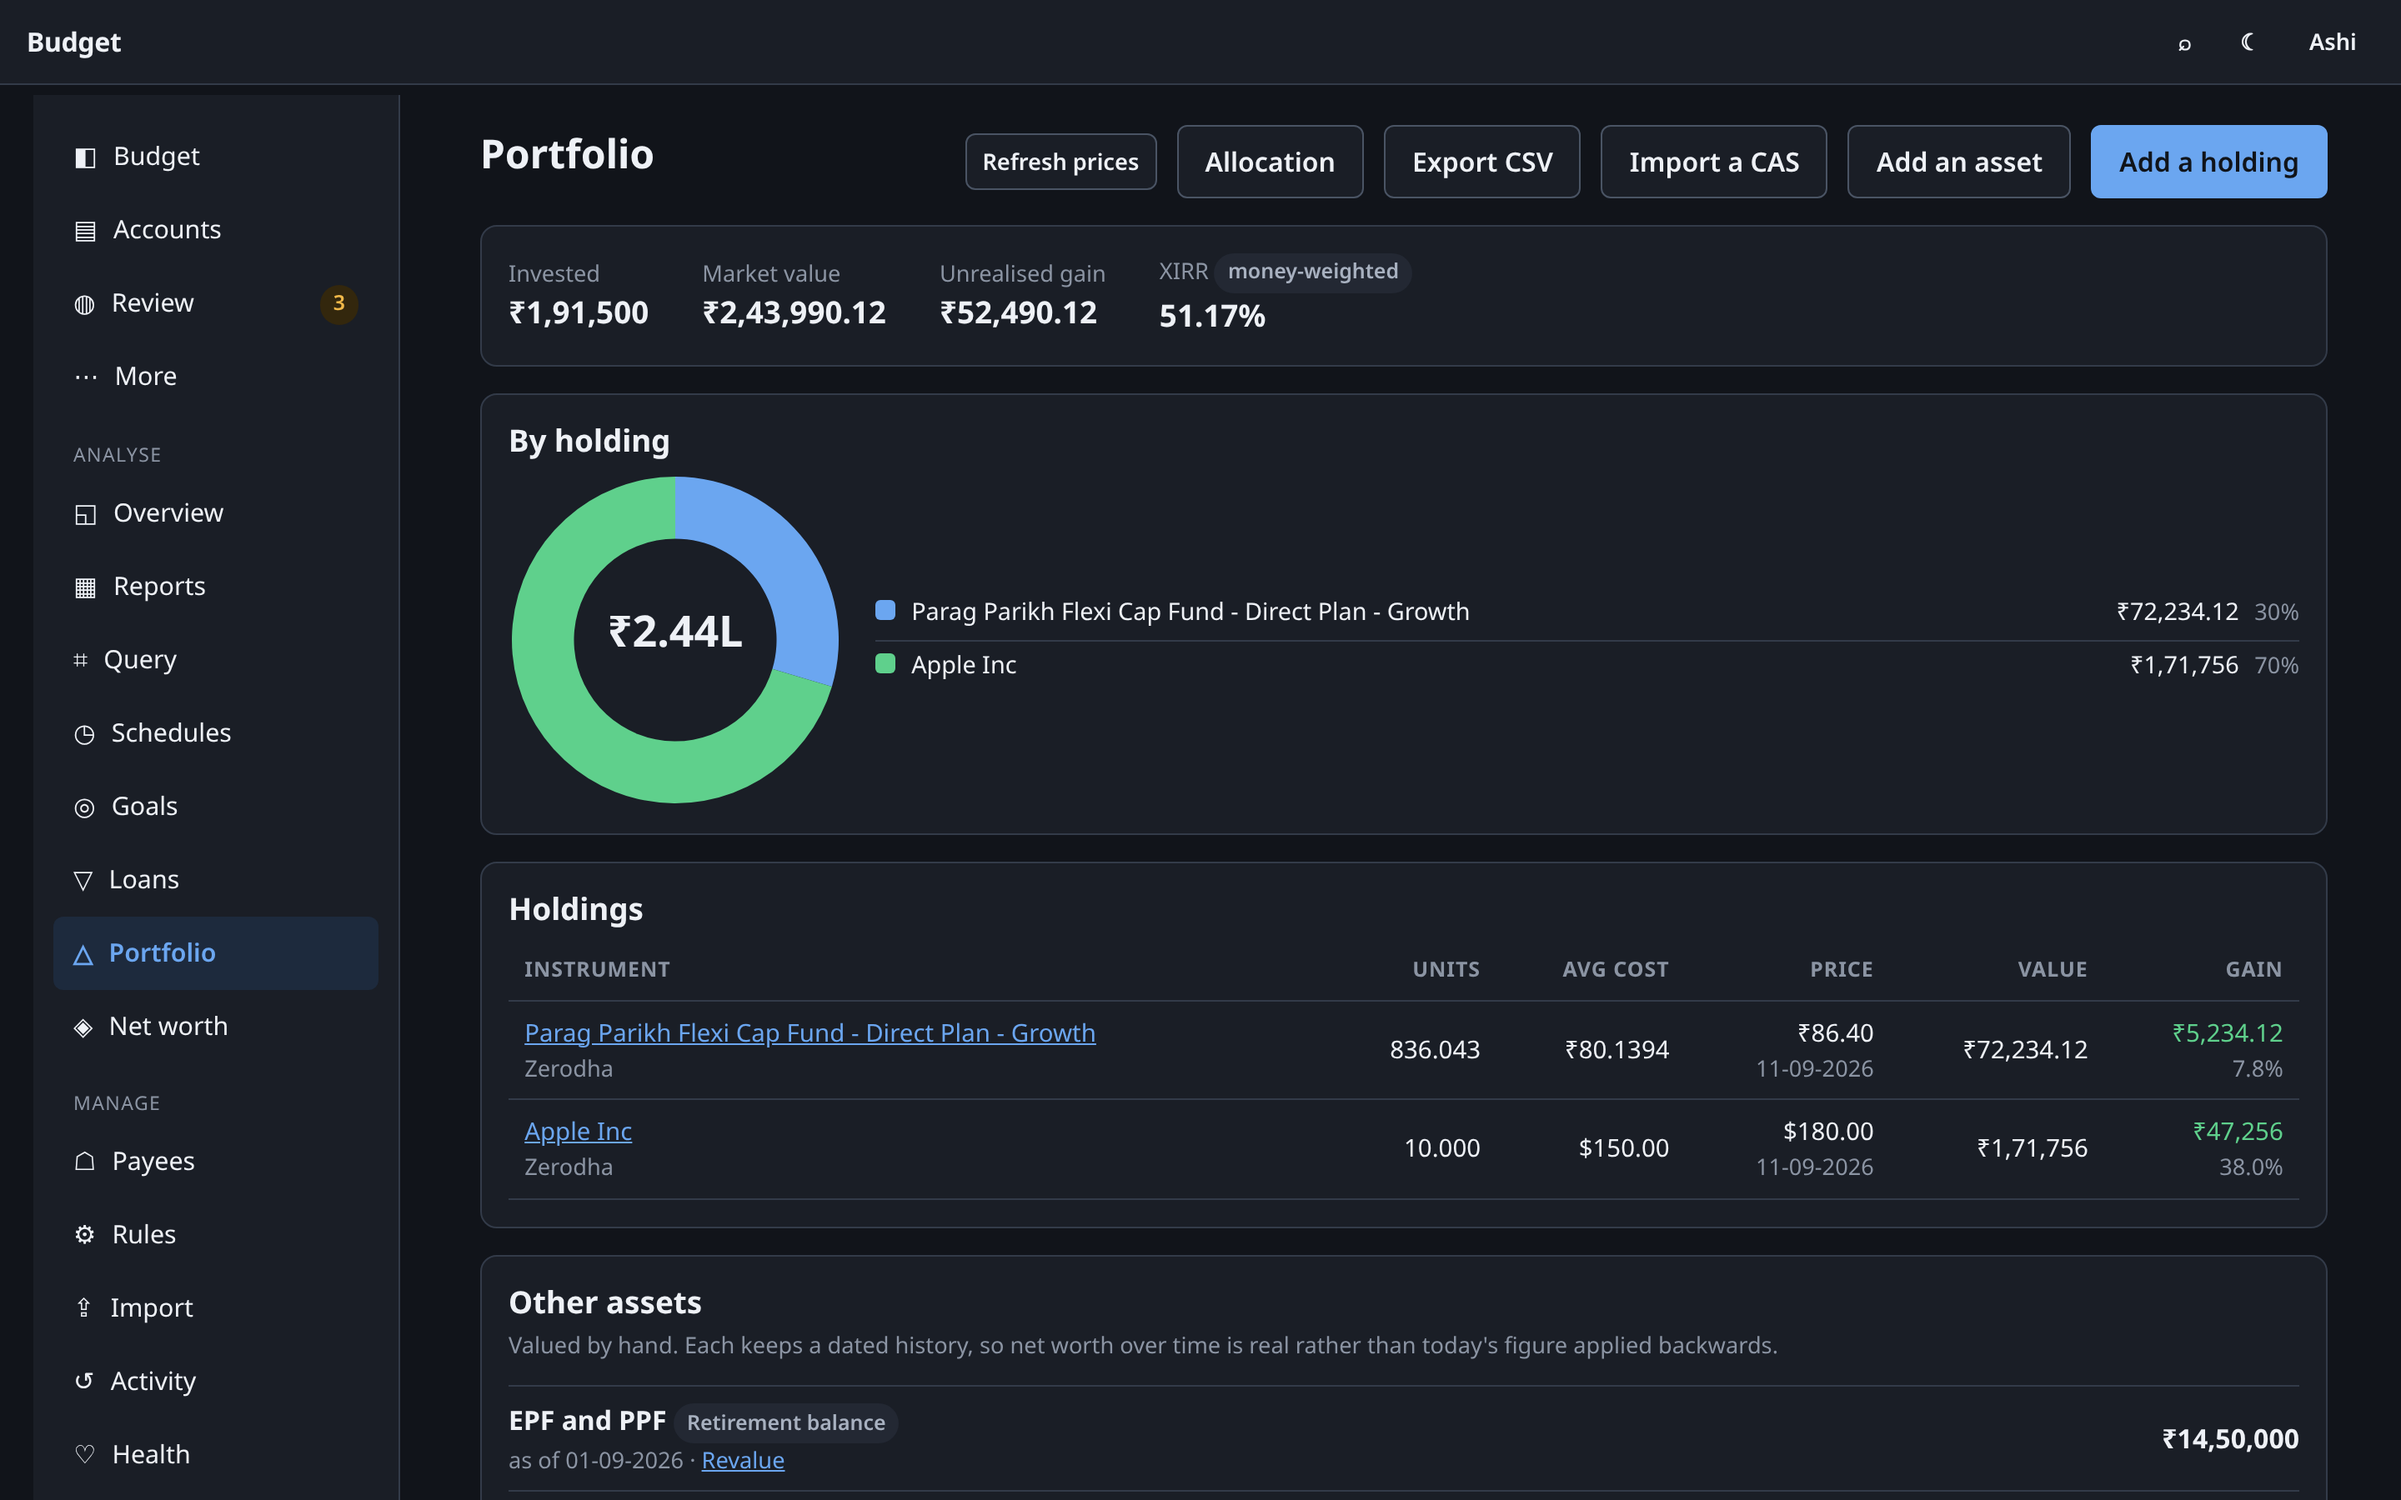
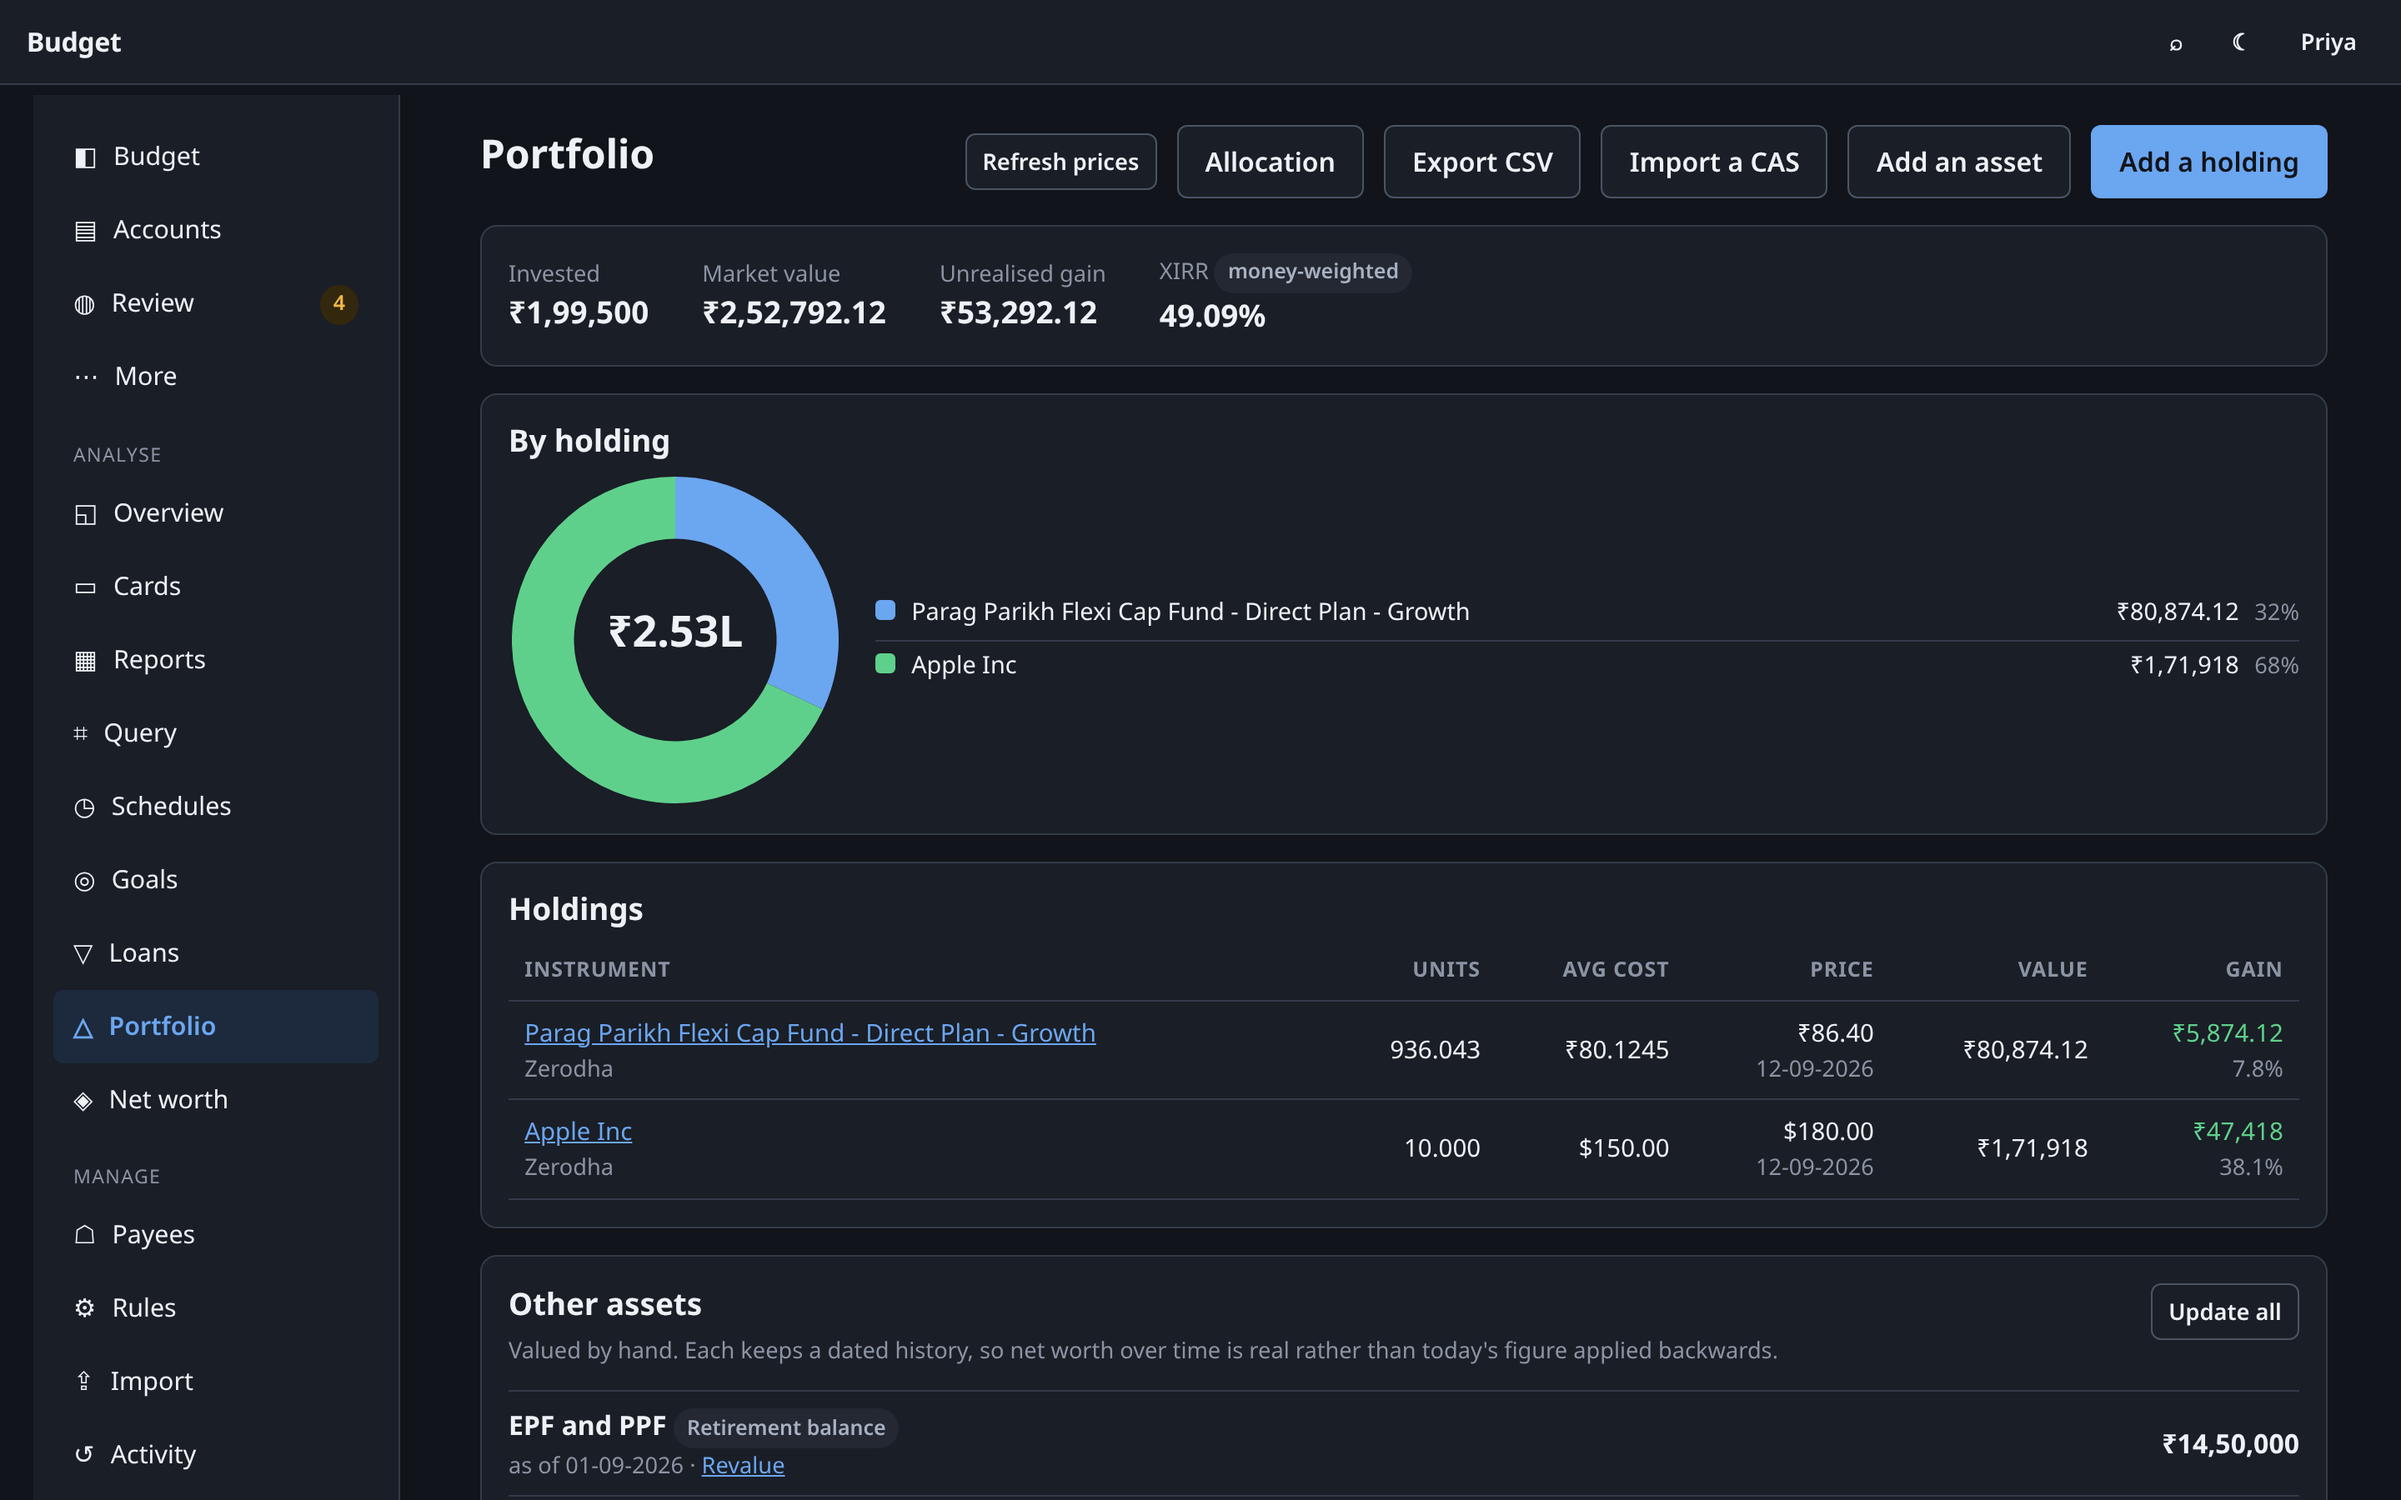
Anonymise the repository for publication
Every household name, card last-four, account fragment, UPI reference and
KYC identifier in the tree was either transcribed from a real statement
during design or carried forward from the first commit. None of it is
needed to explain the design, and all of it is the kind of thing that
should not leave a private repo.

Names become Ravi Kumar and Priya Menon throughout — seed, tests, docs,
screenshots and the one UI placeholder that spelled a real full name out.
Card and account digits become synthetic while keeping the shape each
parser and password rule depends on. Two references survived the sweep
unchanged because they live inside the reportlab-generated statement
PDFs, which were synthetic from the start and whose bytes no text edit
can reach.

Also scrubbed: a CKYC identifier printed on a fixture letterhead, a real
individual named as the counterparty of a UPI transfer, two running
balances copied out of live statements, and the "compiled from a 90-day
Gmail scan and confirmed by the owner" provenance on the institution
list — which now says what it actually is, a composite that exists to
justify the parser matrix.

Screenshots regenerated from the scrubbed seed, and the Cards screen
joins the gallery. README gains a Demo data section stating plainly that
every figure in the repository is fictional, and why that is a design
constraint rather than housekeeping.

diff --git a/README.md b/README.md
@@ -13,7 +13,7 @@ The full functional design lives in [`docs/`](docs/00-README.md). This file is
 how you run it and what it does.
 
 ```
-Status   P0 · P1 complete   P2 substantially complete   805 tests   0 deps
+Status   P0 · P1 complete   P2 substantially complete   811 tests   0 deps
 Stack    TypeScript on Node 24+   node:sqlite   node:http   server-rendered HTML
 Deploy   Docker Compose · homelab behind Cloudflare Tunnel · SQLite on a volume
 ```
@@ -27,7 +27,7 @@ Deploy   Docker Compose · homelab behind Cloudflare Tunnel · SQLite on a volum
 ## Contents
 
 - [What it is](#what-it-is)
-- [Quick start (5 minutes)](#quick-start-5-minutes)
+- [Quick start (5 minutes)](#quick-start-5-minutes) — including [demo data](#demo-data)
 - [Feature tour](#feature-tour)
 - [How the core flows work](#how-the-core-flows-work) — diagrams
 - [Screens](#screens)
@@ -85,6 +85,22 @@ mounted and Node watches it, so an edit restarts the server without a rebuild.
 
 The seed deliberately includes a cash overspend, a credit overspend and a card
 payment, so the screens show real behaviour rather than an empty grid.
+
+### Demo data
+
+Every household, member, account, card, balance and transaction in this
+repository is fictional — in the seed, in the test fixtures, in the screenshots
+and in the worked examples throughout `docs/`. The sample bank statements under
+`src/import/statements.test-data.ts` are PDFs generated with reportlab against
+each bank's published layout, not anybody's statements; the one encrypted
+fixture is locked with a password derived from the fictional identity so the
+tests can exercise the whole decrypt-and-parse chain.
+
+That is a design constraint rather than a tidy-up. Real statements are
+password-protected behind a PAN or a date of birth, and neither those nor the
+files they open have any business in a repository. The institution list in
+`09-decisions-log.md` is likewise a composite — it is there to justify why the
+parser matrix has the shape it does, not to describe anyone's finances.
 
 > The dev profile sets `DEV_LOGIN`, which **bypasses authentication completely**.
 > It exists only in the `dev` Docker stage, is absent from the production image
@@ -357,10 +373,13 @@ Captured from a running instance with the demo household. The UI is theme-aware
 | [![Health — backups, restore verification, price feeds, feature flags](docs/screenshots/health.png)](docs/screenshots/health.png) | [![Settings — household, Gmail, statement identity, API tokens](docs/screenshots/settings.png)](docs/screenshots/settings.png) |
 | **Categories** | **Overview** |
 | [![Categories — targets, reorder arrows, and app-managed envelopes](docs/screenshots/categories.png)](docs/screenshots/categories.png) | [![Overview — runway, due-soon bills, and the month at a glance](docs/screenshots/overview.png)](docs/screenshots/overview.png) |
-| **Activity** | |
-| [![Activity — every change, with its undo and the reason when it has none](docs/screenshots/activity.png)](docs/screenshots/activity.png) | |
+| **Activity** | **Cards** |
+| [![Activity — every change, with its undo and the reason when it has none](docs/screenshots/activity.png)](docs/screenshots/activity.png) | [![Cards — every card in the order it falls due, with what is unfunded](docs/screenshots/cards.png)](docs/screenshots/cards.png) |
 
-Click any image for the full-resolution capture.
+Click any image for the full-resolution capture. Every figure, name and account
+number in them comes from `npm run seed` — a fictional household. No real
+financial data appears anywhere in this repository; see
+[Demo data](#demo-data).
 
 To regenerate them after a UI change, seed a demo household, start the dev
 server with the bypass on, and run the capture script:

diff --git a/docs/09-decisions-log.md b/docs/09-decisions-log.md
@@ -18,7 +18,7 @@ Five answers changed the design rather than merely confirming a default:
 
 ## 2. The institution list, confirmed
 
-Compiled from a 90-day Gmail scan (28-05-2026 → 26-08-2026) and confirmed by the owner.
+The institution profile this app is built against. It is a composite — the account and card numbers are synthetic, and the list is representative of an Indian household holding accounts across several banks rather than an inventory of anyone's. What matters to the design is the *shape*: many issuers, each with its own statement format, cycle and password rule, which is what `04`'s parser matrix exists to absorb.
 
 ### Bank accounts
 
